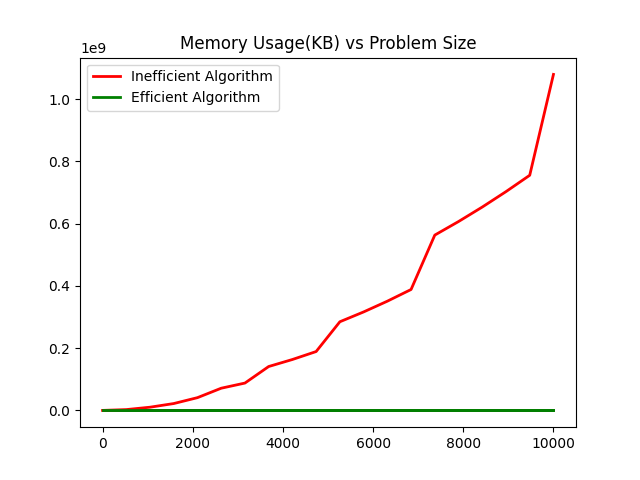
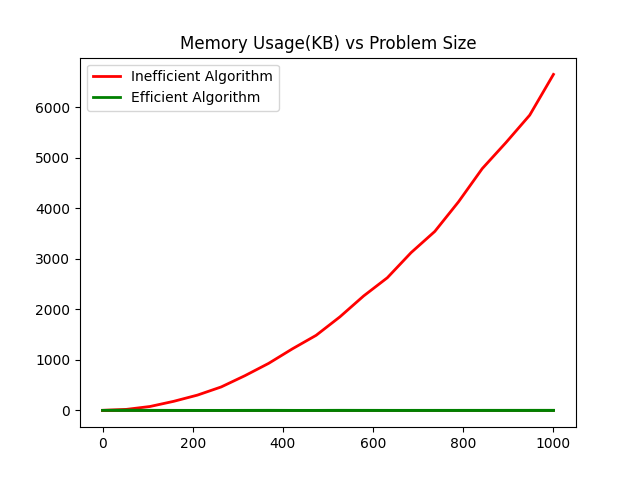
Finale

diff --git a/A_G_S/A_G_S_efficient.py b/A_G_S/A_G_S_efficient.py
@@ -1,6 +1,6 @@
-from A_G_S_basic import dynamicSequentialAlignmentBasic
 from stringGenerator import stringGenerator
 from utils import get_memory_diff, get_memory_point, get_time_diff, get_time_point, write_output
+from A_G_S_basic import dynamicSequentialAlignmentBasic
 
 mapping = {"A":0,"C":1,"G":2,"T":3}
 penalty = [
@@ -11,78 +11,61 @@ penalty = [
 ]
 delta = 30
 
-def find_min_cost_eff(string1, string2, return_cost=False):
-    dp_cost = [[float("inf") for i in range(2)] for j in range(len(string1)+1)]
-    m = len(dp_cost)
-    n = len(dp_cost[0])
+def SpaceEfficientAlignment(string1,string2):
+    B=[[float("inf") for i in range(2)] for j in range(len(string1)+1)]
+    m,n = len(string1),len(string2)
+
+    for i in range(0,m+1):
+        B[i][0]=i*delta
+
+    for j in range(1,n+1):
+        B[0][1]=j*delta
+        for i in range(1,m+1):
+            index1,index2 = mapping[string1[i-1]],mapping[string2[j-1]]
+            currentPen = penalty[index1][index2]
+            B[i][1]=min(currentPen+B[i-1][0],delta+B[i-1][1],delta+B[i][0])
     
-    for i in range(m):
-        dp_cost[i][0] = i * delta
+        for i in range(0,m+1):
+            B[i][0]=B[i][1]
+            B[i][1]=0
 
-    for j in range(1, len(string2)+1):
-        dp_cost[0][1] = j * delta
-        for i in range(1, len(string1)+1):
-            dp_cost[i][1] = min(dp_cost[i-1][0] + penalty[mapping[string1[i-1]]][mapping[string2[j-1]]],min(dp_cost[i-1][1] + delta,dp_cost[i][0] + delta))
+    return [B[i][0] for i in range(0,m+1)]
 
-        for i in range(len(dp_cost)):
-            dp_cost[i][0], dp_cost[i][1] = dp_cost[i][1], 0
-        
-    return dp_cost if not return_cost else dp_cost[-1][0]
+def DivideAndConquerAlignment(string1,string2):
+    m,n = len(string1),len(string2)
 
+    if(m < 2 or n < 2):
+            res1,res2,min_cost,time,mem = dynamicSequentialAlignmentBasic(string1,string2)
+            return res1,res2,min_cost
+
+    left_costs = SpaceEfficientAlignment(string1, string2[:n//2])
+    right_costs = SpaceEfficientAlignment(string1[::-1], string2[n//2:][::-1])
+    q=0
+    sum=left_costs[0] + right_costs[m]
+    for i in range(1,m+1):
+        if(i == 0):
+            sum = left_costs[i] + right_costs[m-i]
+        if(sum > (left_costs[i] + right_costs[m-i])):
+            sum = left_costs[i] + right_costs[m-i]
+            q = i
+
+    left = DivideAndConquerAlignment(string1[:q], string2[:n//2])
+    right = DivideAndConquerAlignment(string1[q:], string2[n//2:])
+	
+    return left[0]+right[0],left[1]+right[1],left[2]+right[2]
 
 def dynamicSequentialAlignmentEfficient(string1,string2):
    
     start_time = get_time_point()
     start_memory = get_memory_point()
-
-    m,n = len(string1),len(string2)
-    
-    if m < 2 or n < 2:
-            res1,res2,min_cost ,a,b= dynamicSequentialAlignmentBasic(string1,string2)
-            end_time = get_time_point()
-            end_memory = get_memory_point()
-            return res1,res2,min_cost,get_time_diff(start_time,end_time),get_memory_diff(start_memory,end_memory)
-
-    left_cost = find_min_cost_eff(string1, string2[:n//2])
-    right_cost = find_min_cost_eff(string1[::-1], string2[n//2:][::-1])
-
-    split_index = 0
-    for i in range(0, m+1):
-        min_cost = left_cost[split_index][0] + right_cost[m-split_index][0]
-        cur_cost = left_cost[i][0] + right_cost[m-i][0]
-        if cur_cost < min_cost:
-            split_index = i
-
-    left_cost = []
-    right_cost = []
-    left = dynamicSequentialAlignmentEfficient(string1[:split_index], string2[:n//2])
-    right = dynamicSequentialAlignmentEfficient(string1[split_index:], string2[n//2:])
-    res=[]
-    for r in range(3):
-        res.append(left[r]+right[r])
+    res1,res2,cost=DivideAndConquerAlignment(string1,string2)
     end_time = get_time_point()
     end_memory = get_memory_point()
-    return res[0],res[1],res[2],end_time-start_time,end_memory-start_memory
+    return res1,res2,cost,get_time_diff(start_time,end_time),get_memory_diff(start_memory,end_memory)
 
 
 if __name__  == '__main__':
     string1, string2 = stringGenerator()
-
-    # print("Generated Strings:")
-    # print(string1+f" ({str(len(string1))})")
-    # print(string2+f" ({str(len(string2))})")
-    
-    # print(f"\nValidating Generated String and Input Strings : {unitTest(string1,string2)}")
     res1,res2, cost,time,memory = dynamicSequentialAlignmentEfficient(string1,string2)
-
-
-
-
-    # print("\nResults:")
-    # print(res1)
-    # print(res2)
-    # print("\nCost: "+str(cost))
-    # print("Time Taken: "+str(time))
-    # print("Memory Used(KB): "+str(memory))
     write_output(res1,res2,cost,time,memory)
     

diff --git a/A_G_S/plotter.py b/A_G_S/plotter.py
@@ -11,7 +11,7 @@ from A_G_S_basic import dynamicSequentialAlignmentBasic
 from A_G_S_efficient import dynamicSequentialAlignmentEfficient
 import random
 
-PLOT_X_LIMIT=10000
+PLOT_X_LIMIT=1000
 NUM_POINTS=20
 
 char_set = ["A","T","G","C"]
@@ -44,12 +44,16 @@ if __name__  == '__main__':
             string1,string2=augment_strings(string1,string2)
 
     for (string1,string2) in inputs:
+        print("Running Basic Algo for "+str((len(string1)+len(string2))))
         r1,r2,c,time,memory=dynamicSequentialAlignmentBasic(string1,string2)
+        print("Time:",time,"| Memory:",memory)
         inefficient_time.append(time)
         inefficient_memory.append(memory)
 
     for (string1,string2) in inputs:
+        print("Running Efficient Algo for "+str((len(string1)+len(string2))))
         r1,r2,c,time,memory=dynamicSequentialAlignmentEfficient(string1,string2)  
+        print("Time:",time,"| Memory:",memory)
         efficient_time.append(time)
         efficient_memory.append(memory)
       
